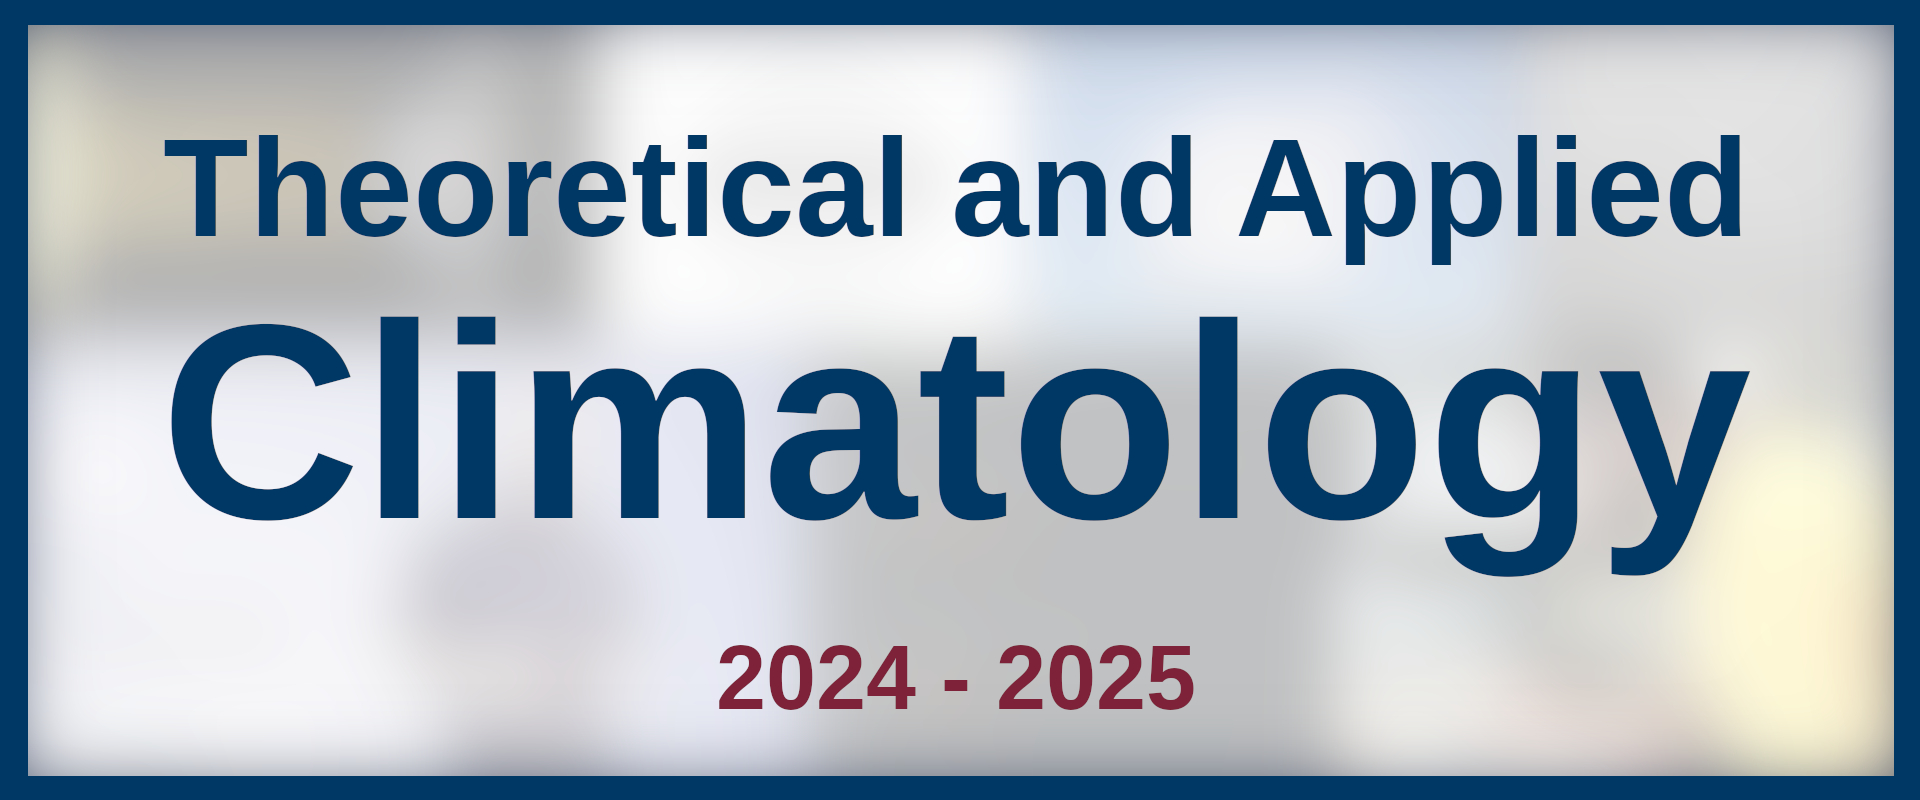
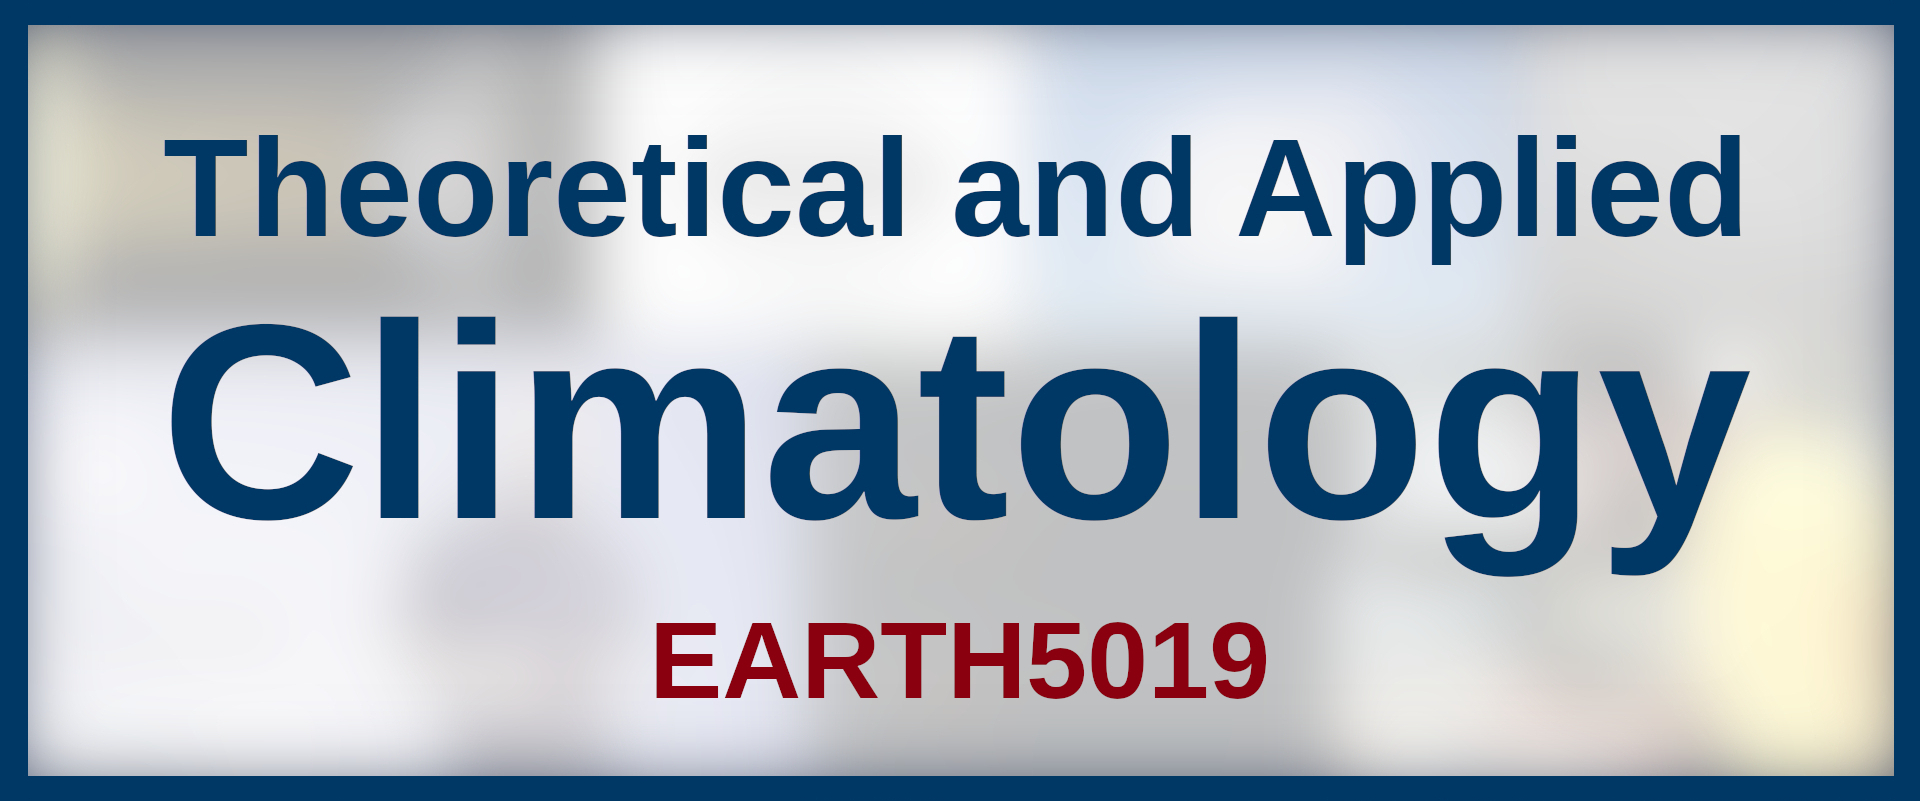
2025 launch

Changed region(s): [[0.3438, 0.75, 0.6562, 0.9062]]

diff --git a/source/general/timetable.rst b/source/general/timetable.rst
@@ -14,14 +14,14 @@ Class Times and Venue
 Classes are timetabled as workshops on:
 
 * **Lectures** (Weeks 1-5):
-    - *When*: Tuesdays (13:00 – 16:00)
-    - *Where*: Teaching Lab 201 (East Quad. in the Gilbert Scott Building)
+    - *When*: Tuesdays (12:30 – 15:30)
+    - *Where*: Teaching Lab EQ204 (East Quad. in the Gilbert Scott Building)
 * Labs (Weeks 6-10):
     - *When*: Wednesdays (9:00 – 12:00)
-    - *Where*: Teaching Lab 201 (East Quad. in the Gilbert Scott Building)
+    - *Where*: Teaching Lab EQ204 (East Quad. in the Gilbert Scott Building)
 * Presentations for assessment 2 (Week 10):
-    - *When*: Thursday (14:00 – 17:00)
-    - *Where*: room 311 (East Quad. in the Gilbert Scott Building)
+    - *When*: Thursday (12:30 – 16:30)
+    - *Where*: room EQ412 (East Quad. in the Gilbert Scott Building)
 
 Lecture Timetable and Topics
 ............................
@@ -29,20 +29,20 @@ Lecture Timetable and Topics
 +------------------+------------+-------------------------------------------------------------------------------+
 | Date (weeks 1-5) | Instructor | Topics                                                                        |
 +==================+============+===============================================================================+
-| Tuesday,         | S.G. Mutz  | * Primary controls on the climate system                                      |
-| 24.09.2024       |            | * Introduction to probability                                                 |
+| Tuesday,         | S.G. Mutz  | * Course Intro, intro to the climate, weather, atmosphere                     |
+| 23.09.2025       |            | * Coding crash course                                                         |
 +------------------+------------+-------------------------------------------------------------------------------+
-| Tuesday,         | S.G. Mutz  | * Primary controls on the climate system                                      |
-| 01.10.2024       |            | * Fundamentals in applied statistics                                          |
+| Tuesday,         | S.G. Mutz  | * Primary controls on the climate system I, intro to stats and probability I  |
+| 30.09.2025       |            | * Coding crash course                                                         |
 +------------------+------------+-------------------------------------------------------------------------------+
-| Tuesday,         | S.G. Mutz  | * Atmospheric movement                                                        |
-| 08.10.2024       |            | * Fundamentals in applied statistics                                          |
+| Tuesday,         | S.G. Mutz  | * Primary controls on the climate system II, intro to stats and probability II|
+| 07.10.2025       |            | * Coding crash course                                                         |
 +------------------+------------+-------------------------------------------------------------------------------+
-| Tuesday,         | S.G. Mutz  | * Atmospheric movement and water                                              |
-| 15.10.2024       |            | * Statistical methods and modelling                                           |
+| Tuesday,         | S.G. Mutz  | * Practical concepts and methods in statistics                                |
+| 14.10.2025       |            | * Climate exercises (statistical)                                             |
 +------------------+------------+-------------------------------------------------------------------------------+
-| Tuesday,         | S.G. Mutz  | * Statistical methods and modelling (in climate science)                      |
-| 22.10.2024       |            |                                                                               |
+| Tuesday,         | S.G. Mutz  | * Atmospheric dynamics I                                                      |
+| 21.10.2025       |            | * Climate exercises (statistical)                                             |
 +------------------+------------+-------------------------------------------------------------------------------+
 
 Lab Timetable and Topics
@@ -51,20 +51,20 @@ Lab Timetable and Topics
 +------------------+------------+-------------------------------------------------------------------------------+
 | Date (weeks 6-10)| Instructor | Topics                                                                        |
 +==================+============+===============================================================================+
-| Wednesday,       | S.G. Mutz  | * Coding crash course                                                         |
-| 06.11.2024       |            |                                                                               |
+| Wednesday,       | S.G. Mutz  | * Atmospheric dynamics II, practical concepts and methods in statistics       |
+| 05.11.2025       |            | * Climate exercises (theoretical)                                             |
 +------------------+------------+-------------------------------------------------------------------------------+
-| Wednesday,       | S.G. Mutz  | * Coding crash course                                                         |
-| 13.11.2024       |            | * Working on climate problems                                                 |
+| Wednesday,       | S.G. Mutz  | * Atmospheric dynamics III and water                                          |
+| 12.11.2025       |            | * Working on climate problems                                                 |
 +------------------+------------+-------------------------------------------------------------------------------+
-| Wednesday,       | S.G. Mutz  | * Working on climate problems                                                 |
-| 20.11.2024       |            | * Group projects                                                              |
+| Wednesday,       | S.G. Mutz  | * Advanced statistical methods and machine learning in climate science I      |
+| 19.11.2025       |            | * Group projects                                                              |
 +------------------+------------+-------------------------------------------------------------------------------+
-| Wednesday,       | S.G. Mutz  | * Working on climate problems                                                 |
-| 27.11.2024       |            | * Group projects                                                              |
+| Wednesday,       | S.G. Mutz  | * Advanced statistical methods and machine learning in climate science II     |
+| 26.11.2025       |            | * Group projects                                                              |
 +------------------+------------+-------------------------------------------------------------------------------+
 | Wednesday,       | S.G. Mutz  | * Group project discussion                                                    |
-| 04.12.2024       |            |                                                                               |
+| 03.12.2025       |            |                                                                               |
 +------------------+------------+-------------------------------------------------------------------------------+
 
 Presentations
@@ -74,22 +74,30 @@ Presentations
 | Date (week 10) | Instructor | Topics                                                                        |
 +================+============+===============================================================================+
 | Thursday,      | S.G. Mutz  | * Seminar (Presentations of group projects)                                   |
-| 05.12.2024     |            |                                                                               |
+| 04.12.2025     |            |                                                                               |
 +----------------+------------+-------------------------------------------------------------------------------+
 
 
 Assessment Dates
 ----------------
 
-**Assessment 1 (Group Projects):**
+**Assessment 1 (Excercise Submissions, 25% of total grade):**
 
-* *Issued: 13.11.2024*
-* *Deadline: 29.12.2024, 16:00. Submitted via Moodle.*
+* Students will submit their solutions for the climate exercises started in-class.
+* Issued: 14.10.2025
+* Deadline: 12.11.2025, 16:00. Submitted via Moodle.
 
-**Assessment 2 (Group Project Presentations):**
+**Assessment 2 (Group Projects, 50% of total grade):**
 
-* *Issued: 20.11.2024*
-* *Deadline: 05.12.2024, 14:00 – 17:00. Presented in EQ Room 311 (Gilbert Scott Building).*
+* The (data analysis/model development) group projects will involve original programming to tackle a problem in climate science using statistical and/or machine learning techniques. You are asked to write and submit a report that presents and discusses the outcomes of the project.
+* Issued: 12.11.2025
+* Deadline: 30.11.2025, 16:00. Submitted via Moodle.
+
+**Assessment 3 (Group Project Presentations, 25% of total grade):**
+
+* All group projects will be presented by the groups successively over the course of 3h. We will adopt a typical academic conference format with a programme, strict time limits and opportunities for questions. You are asked to deliver an oral presentation to communicate and evaluate the group project outcomes.
+* Issued: 19.11.2025
+* Deadline: 04.12.2025, 12:30 – 16:30. (Presented)
 
 
 

diff --git a/source/general/info.rst b/source/general/info.rst
@@ -25,19 +25,41 @@ Course Convenor
 Software for this Course
 ------------------------
 
-There are only a few software libraries required for the completion of this course:
+The tutorials are in Python, but you may choose any programming language you like to complete the course. I will be able to provide good support for either Python or modern Fortran. Both are general-purpose languages, commonly used in climate science and beyond.
+
+Option 1: Virtual Machine (simple, but slow)
+
+Our system administrator (Daniel) and I (Sebastian) have created a Linux virtual machine for you and installed these on our lab computers. This will cover your needs for tutorials and exercises. You may decide to also install the virtual machine on your own computer using `VirtualBox <https://www.virtualbox.org/>`_.
+
+Option 2: Build Environment (with guidance)
+
+Alternatively, you can install all the tools on your computer. These will differ depending on your choice of language. You may even decide to use both. I will happily guide you through the process in the beginning of the semester.
+
+**Python:**
+
+Python has a shallow initial learning curve and is ideal for prototyping. However, it is slow, energy-inefficient, and unsuitable for many types of larger projects. For Python, you will need:
 
 * `Python 3.8 or newer <https://www.python.org/downloads/>`_
-* Python packages `NumPy <https://numpy.org/install/>`_ and `Matplotlib <https://matplotlib.org/stable/install/index.html>`_
-* `Spyder <https://www.spyder-ide.org/download/>`_ (as part of `Anaconda <https://www.anaconda.com/download>`_ or as a standalone)
+* Python packages `NumPy <https://numpy.org/install/>`_, `SciPy <https://scipy.org/>`_, and  `Matplotlib <https://matplotlib.org/stable/install/index.html>`_, best installed with `conda <https://www.anaconda.com/docs/getting-started/miniconda/install>`_.
+* An IDE (e.g., Spyder) or code code editor and terminal emulator (e.g., Kate + Konsole)
 
-Spyder, an IDE (integrated development environment), will be used to write and execute Python code. All exercises, data analysis and group projects can be completed here. All software is downloadable for free. Students should make sure that they have these requirements installed on their computers at the start of the course. If students do not have their own computer, university computers can be provided for the course. Please let the lecturer know in advance.
+**Modern Fortran:**
 
-Note that it is not a requirement that students use the above-mentioned tools for the completion of the exercises. Students may choose to use a different IDE or even a programming language, such as `modern Fortran <https://fortran-lang.org/>`_. However, this ought to be discussed with the lecturer at the beginning of the semester to assess that possibility with regards to student support and group projects.
+Fortran has a steeper learning curve and is not (yet) as interactive as Python. However, it scales well, is robust and reliable, energy-efficient, unbeaten in performance, and remains the go-to language for many computationally intensive tasks (e.g., climate modelling). For `modern Fortran <https://fortran-lang.org/>`_, you will need:
+
+* A `Fortran compiler (GNU Fortran is recommended) <https://gcc.gnu.org/fortran/>`_, best installed with `conda <https://www.anaconda.com/docs/getting-started/miniconda/install>`_.
+* The `Fortran Package Manager <https://fpm.fortran-lang.org/>`_, best installed with conda.
+* An IDE (e.g., Code::Blocks) or a code editor and terminal emulator (e.g., Kate + Konsole)
+
+Note: You may need additional packages for your group project.
+
+**To-Do:**
+
+I will introduce the languages in our first session. Please discuss your language preference at the beginning of the semester, so it can be taken into account during practicals and group project planning.
 
 
 Resources
 ---------
 
 * Lecture and lab materials will be made available (or linked) on the "EARTH5019: Theoretical and Applied Climatology" Moodle page for this year.
-* The `Python website <https://www.python.org/doc/>`_ includes beginner’s guides that can complement your general introduction to programming in the lab sessions. If you consider using modern Fortran instead, you can use the `LFortran web interface <https://dev.lfortran.org/>`_ to experiment with Fortran conveniently in your web browser.
+* The `Python website <https://www.python.org/doc/>`_ includes beginner’s guides that can complement your general introduction to programming in the lab sessions. Similarly, the `Fortran-lang website <https://fortran-lang.org/learn/>`_ has an excellent section for learning the language, and the  `LFortran web interface <https://dev.lfortran.org/>`_ lets you experiment with Fortran in your web browser.

diff --git a/source/general/syllabus.rst b/source/general/syllabus.rst
@@ -41,11 +41,9 @@ Ongoing informal assessment and verbal feedback will be available through discus
 Summative Assessment
 ....................
 
-**Assessment 1 (Group Projects, 80% of total grade):**
-The (data analysis/model development) group projects will involve original programming to tackle a problem in climate science using statistical and/or machine learning techniques. You are asked to write and submit a report that presents and discusses the outcomes of the project.
-
-**Assessment 2 (Group Project Presentations, 20% of total grade):**
-All group projects will be presented by the groups successively over the course of 3h. We will adopt a typical academic conference format with a programme, strict time limits and opportunities for questions. You are asked to deliver an oral presentation to communicate and evaluate the group project outcomes.
+* A report that presents and discusses the outcomes of a data analysis or model development group project (50%),
+* An oral presentation to communicate and evaluate the group project outcomes (25%),
+* Submissions of the student's solutions to a series of exercises (25%).
 
 
 

diff --git a/source/index.rst b/source/index.rst
@@ -33,18 +33,18 @@ Table of Contents
 
    exercises/info
    exercises/E001/py/E001
-   exercises/E002/py/E002
-   exercises/E003/py/E003
-   exercises/E004/py/E004
-   exercises/E005/py/E005
+..    exercises/E002/py/E002
+..    exercises/E003/py/E003
+..    exercises/E004/py/E004
+..    exercises/E005/py/E005
 
 .. toctree::
    :maxdepth: 1
    :caption: Exercises (Climate):
 
-   exercises/E101/E101
-   exercises/E102/E102
-   exercises/E103/E103
+..    exercises/E101/E101
+..    exercises/E102/E102
+..    exercises/E103/E103
 ..    exercises/E104/E104
 ..    exercises/E105/E105
 ..
@@ -66,7 +66,7 @@ Table of Contents
    :maxdepth: 1
    :caption: Additional Resources:
    
-   resources/data
    resources/dictionary
    resources/reading
    resources/credits
+..    resources/data

diff --git a/source/resources/credits.rst b/source/resources/credits.rst
@@ -64,7 +64,7 @@ Acknowledgements
 | INTEGRATE                          |                                                                |
 +------------------------------------+----------------------------------------------------------------+
 +------------------------------------+----------------------------------------------------------------+
-|**1.1-2024.0**                      | Sebastian G. Mutz                                              |
+|**1.1-2025.0**                      | Sebastian G. Mutz                                              |
 | Theoretical and Applied Climatology|                                                                |
 +------------------------------------+----------------------------------------------------------------+
 
